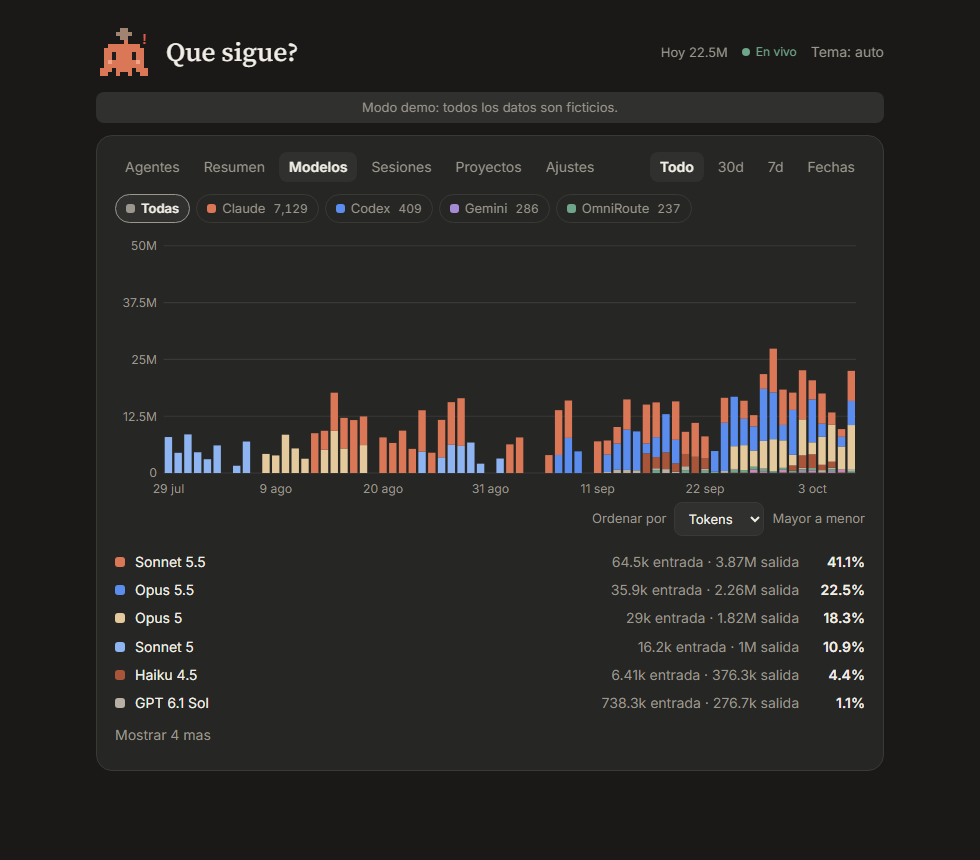
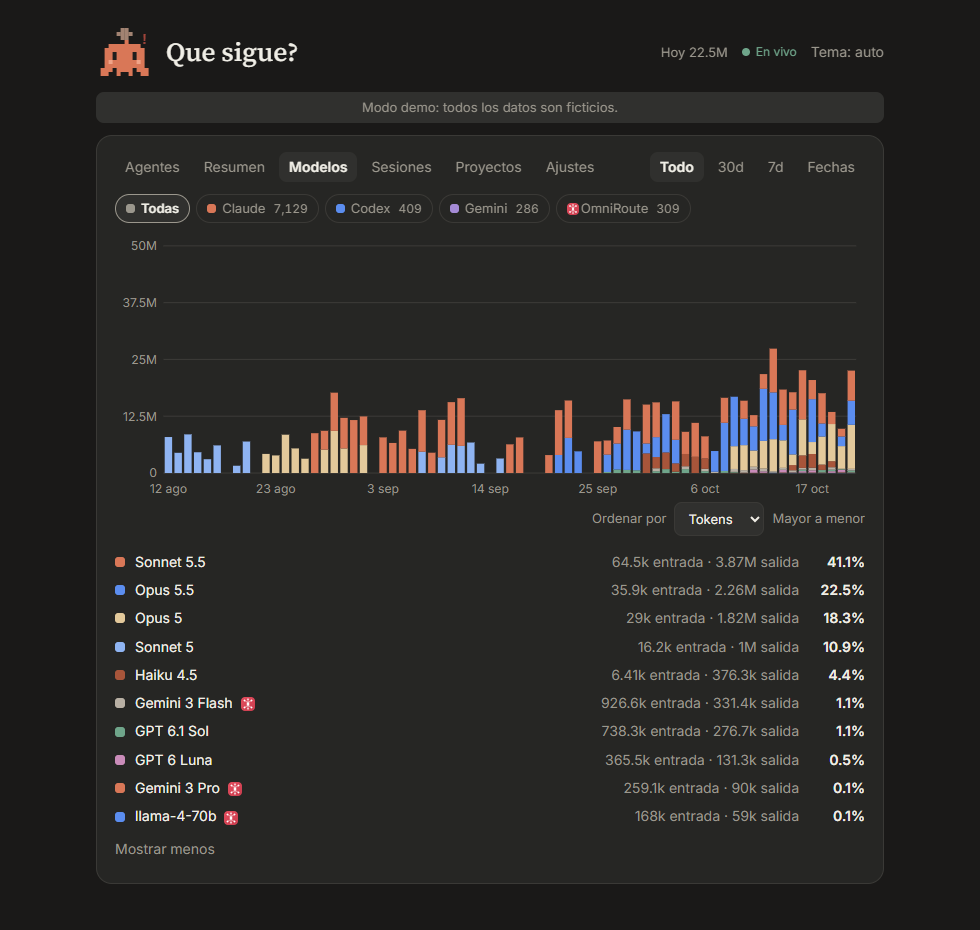
docs: documenta la etiqueta de OmniRoute y actualiza las capturas del demo
Describe el campo via de /api/models, el chip con logo, el grupo Fuentes de
Ajustes y el crédito del logo (MIT). Las capturas de Resumen, Modelos, Roles,
Sesiones y Ajustes salen del modo demo.

diff --git a/README.en.md b/README.en.md
@@ -301,7 +301,7 @@ The launcher outputs nothing, because a `SessionStart` hook's output is added to
 
 ## Real context limit
 
-Claude Code logs don't say what the context window is for each model. By default ClaudeHub **estimates** it (the numbers have an asterisk).
+Claude Code logs don't say what the context window is for each model. By default ClaudeHub **estimates** it (the numbers are marked with `*`).
 
 To use the **real** value, enable ClaudeHub's status line. Claude Code passes that script the window size of each session, and ClaudeHub saves and uses it.
 
@@ -389,9 +389,19 @@ OmniRoute runs in a Docker container and its usage API requires a panel session,
 2. It opens the copy with `node:sqlite` read-only, validates it with `PRAGMA quick_check`, and reads only the `usage_history` table.
 3. If the copy comes out damaged, it retries. If it fails, it keeps the previous reading and marks the source as stale.
 
-It is off by default. Turn it on with `sources.omniroute: true`. Without Docker or without the container, the source shows an error and the rest keeps working.
+It is off by default. Turn it on under **Ajustes > Fuentes** (Settings > Sources) or with `sources.omniroute: true`. Without Docker or the `omniroute` container, the source shows an error and the rest keeps working.
 
 If you mount the database on your disk, set `omniroute.dbPath` to the path of `storage.sqlite` and ClaudeHub opens it directly, without `docker cp`.
+
+#### OmniRoute label in Models
+
+In the **Models** tab, each model that went through OmniRoute carries a small label with the OmniRoute logo. A model used directly and through OmniRoute is a single row. Hover over the label, or use a screen reader, to see the detail of what went through OmniRoute: calls, success rate, 429, 403, and 5xx errors, p95 latency, tokens, and providers. Failures come from `usage_history`: HTTP code, success, latency, and error code.
+
+Models with calls also appear with 0 tokens.
+
+In the source selector, OmniRoute displays its 12 px logo. When off, it displays "apagada" (off) and the title "Actívala en Ajustes" (Enable it in Settings). Toggle Codex, Gemini, and OmniRoute under **Ajustes > Fuentes**. Save changes to update the chip. Demo mode does not save changes.
+
+The logo is the glyph of [OmniRoute](https://github.com/diegosouzapw/OmniRoute), by its authors and under the MIT license. ClaudeHub recreates it as an SVG component, without copying their files.
 
 ## Hook states
 
@@ -568,7 +578,7 @@ Only responds on `127.0.0.1`. Rejects with `403` any request whose `Host` is not
 | Route | Returns |
 |---|---|
 | `GET /api/summary` | Totals, active days, peak hour, favorite model, and heatmap. |
-| `GET /api/models` | Daily series by model and model table. |
+| `GET /api/models` | Daily series by model and model table. Each model may carry `via`, what went through OmniRoute. |
 | `GET /api/roles` | Orchestrator vs subagents and agent types. Claude only. |
 | `GET /api/sessions` | Chats with title, project, dates, and tokens. |
 | `GET /api/projects` | Tokens per project. |

diff --git a/README.pt-BR.md b/README.pt-BR.md
@@ -389,9 +389,19 @@ OmniRoute roda em um contêiner Docker e sua API de uso pede sessão do painel, 
 2. Abre a cópia com `node:sqlite` em somente leitura, a valida com `PRAGMA quick_check` e lê apenas a tabela `usage_history`.
 3. Se a cópia sair danificada, tenta de novo. Se falhar, mantém a leitura anterior e marca a fonte como desatualizada.
 
-Está desativada por padrão. Ative-a com `sources.omniroute: true`. Sem Docker ou sem o contêiner, a fonte fica com erro e o resto continua funcionando.
+Está desativada por padrão. Ative-a em **Ajustes > Fuentes** (Configurações > Fontes) ou com `sources.omniroute: true`. Sem Docker ou sem o contêiner `omniroute`, a fonte fica com erro e o resto continua funcionando.
 
 Se você monta o banco no seu disco, defina `omniroute.dbPath` com o caminho de `storage.sqlite` e ClaudeHub o abre direto, sem `docker cp`.
+
+#### Etiqueta do OmniRoute em Modelos
+
+Na aba **Modelos**, cada modelo que passou pelo OmniRoute leva uma etiqueta pequena com o logo do OmniRoute. Um modelo usado direto e via OmniRoute é uma única linha. Ao passar o mouse sobre a etiqueta, ou com um leitor de tela, aparece o detalhe do que passou pelo OmniRoute: chamadas, taxa de sucesso, erros 429, 403 e 5xx, p95 de latência, tokens e provedores. As falhas vêm de `usage_history`: código HTTP, sucesso, latência e código de erro.
+
+Os modelos com chamadas também aparecem com 0 tokens.
+
+No seletor de fontes, OmniRoute mostra seu logo de 12 px. Desativada, mostra "apagada" (desativada) e o título "Actívala en Ajustes" (Ative-a nas Configurações). Ative ou desative Codex, Gemini e OmniRoute em **Ajustes > Fuentes**. Salve as alterações para atualizar o chip. O modo demo não salva alterações.
+
+O logo é o glifo do [OmniRoute](https://github.com/diegosouzapw/OmniRoute), de seus autores e com licença MIT. ClaudeHub o recria como um componente SVG, sem copiar seus arquivos.
 
 ## Estados por hooks
 
@@ -568,7 +578,7 @@ Só responde em `127.0.0.1`. Rejeita com `403` qualquer requisição cuja `Host`
 | Rota | Retorna |
 |---|---|
 | `GET /api/summary` | Totais, dias ativos, hora de pico, modelo favorito e mapa de calor. |
-| `GET /api/models` | Série diária por modelo e tabela de modelos. |
+| `GET /api/models` | Série diária por modelo e tabela de modelos. Cada modelo pode trazer `via`, o que passou pelo OmniRoute. |
 | `GET /api/roles` | Orquestrador contra subagentes e tipos de agente. Apenas Claude. |
 | `GET /api/sessions` | Chats com título, projeto, datas e tokens. |
 | `GET /api/projects` | Tokens por projeto. |

diff --git a/README.md b/README.md
@@ -389,9 +389,19 @@ OmniRoute corre en un contenedor Docker y su API de uso pide sesión del panel, 
 2. Abre la copia con `node:sqlite` en solo lectura, la valida con `PRAGMA quick_check` y lee solo la tabla `usage_history`.
 3. Si la copia sale dañada, reintenta. Si falla, conserva la lectura anterior y marca la fuente como desactualizada.
 
-Está apagada por defecto. Actívala con `sources.omniroute: true`. Sin Docker o sin el contenedor, la fuente queda con error y el resto sigue funcionando.
+Está apagada por defecto. Actívala en **Ajustes > Fuentes** o con `sources.omniroute: true`. Sin Docker o sin el contenedor `omniroute`, la fuente queda con error y el resto sigue funcionando.
 
 Si montas la base en tu disco, fija `omniroute.dbPath` con la ruta de `storage.sqlite` y ClaudeHub la abre directo, sin `docker cp`.
+
+#### Etiqueta de OmniRoute en Modelos
+
+En la pestaña **Modelos**, cada modelo que pasó por OmniRoute lleva una etiqueta pequeña con el logo de OmniRoute. Un modelo usado directo y vía OmniRoute es una sola fila. Al pasar el mouse por la etiqueta, o con un lector de pantalla, se ve el detalle de lo que pasó por OmniRoute: llamadas, tasa de éxito, errores 429, 403 y 5xx, p95 de latencia, tokens y proveedores. Los fallos salen de `usage_history`: código HTTP, éxito, latencia y código de error.
+
+Los modelos con llamadas aparecen también con 0 tokens.
+
+En el selector de fuentes, OmniRoute muestra su logo de 12 px. Apagada, muestra "apagada" y el título "Actívala en Ajustes". Activa o apaga Codex, Gemini y OmniRoute en **Ajustes > Fuentes**. Guarda los cambios para actualizar el chip. El modo demo no guarda cambios.
+
+El logo es el glifo de [OmniRoute](https://github.com/diegosouzapw/OmniRoute), de sus autores y con licencia MIT. ClaudeHub lo recrea como un componente SVG, sin copiar sus archivos.
 
 ## Estados por hooks
 
@@ -568,7 +578,7 @@ Solo responde en `127.0.0.1`. Rechaza con `403` cualquier petición cuyo `Host` 
 | Ruta | Devuelve |
 |---|---|
 | `GET /api/summary` | Totales, días activos, hora pico, modelo favorito y mapa de calor. |
-| `GET /api/models` | Serie diaria por modelo y tabla de modelos. |
+| `GET /api/models` | Serie diaria por modelo y tabla de modelos. Cada modelo puede traer `via`, lo que pasó por OmniRoute. |
 | `GET /api/roles` | Orquestador contra subagentes y tipos de agente. Solo Claude. |
 | `GET /api/sessions` | Chats con título, proyecto, fechas y tokens. |
 | `GET /api/projects` | Tokens por proyecto. |

diff --git a/AGENTS.md b/AGENTS.md
@@ -39,7 +39,7 @@ curl "http://127.0.0.1:4317/api/active"
 | Ruta | Responde a |
 |---|---|
 | `/api/summary` | Cuántos tokens, mensajes y sesiones hubo. Modelo favorito y hora pico. |
-| `/api/models` | Qué modelos se usaron y cuánto. |
+| `/api/models` | Qué modelos se usaron y cuánto. Cada modelo puede traer `via`: lo que pasó por OmniRoute (ver Otras fuentes). |
 | `/api/roles` | Cuánto gastó el orquestador y cuánto los subagentes. |
 | `/api/sessions` | Qué chats gastaron más, con su título. |
 | `/api/projects` | Qué proyectos gastaron más. |
@@ -96,6 +96,12 @@ Solo se leen campos de uso. Nunca se leen textos de conversaciones.
 | OmniRoute | Tabla `usage_history` de `storage.sqlite` en su contenedor Docker | `sources.omniroute`, apagada por defecto |
 
 OmniRoute se lee en solo lectura. ClaudeHub ejecuta `docker cp` cada 60 segundos y abre la copia con `node:sqlite`. Opciones: `omniroute.container` (por defecto `omniroute`) y `omniroute.dbPath` (ruta directa a `storage.sqlite`, sin `docker cp`). Sin Docker, la fuente queda con error y el resto sigue.
+
+De `usage_history` salen los tokens (con el nombre del modelo sin el proveedor, así el mismo modelo usado directo y vía OmniRoute es una sola fila) y las llamadas, también las fallidas: código HTTP, éxito, latencia y código de error. No se leen cuerpos, claves ni cuentas.
+
+`/api/models` agrega a cada modelo el campo opcional `via` cuando `?source` es `all` u `omniroute`. Trae `calls`, `ok`, `successRate`, `e429`, `e403`, `e5xx`, `p95Ms` (solo llamadas exitosas), `tokens` y `providers`. Los modelos con llamadas aparecen también con 0 tokens. El dashboard muestra una etiqueta con el logo de OmniRoute.
+
+El selector de fuentes muestra OmniRoute con su logo de 12 px. Apagada, muestra "apagada" y el título "Actívala en Ajustes". En **Ajustes > Fuentes**, activa o apaga Codex, Gemini y OmniRoute. Guarda los cambios para actualizar el chip. OmniRoute necesita Docker y el contenedor `omniroute`, salvo que configures `omniroute.dbPath`.
 
 Los límites de Codex salen del `rate_limits` de sus rollouts. Valen mientras no venza la ventana.
 
